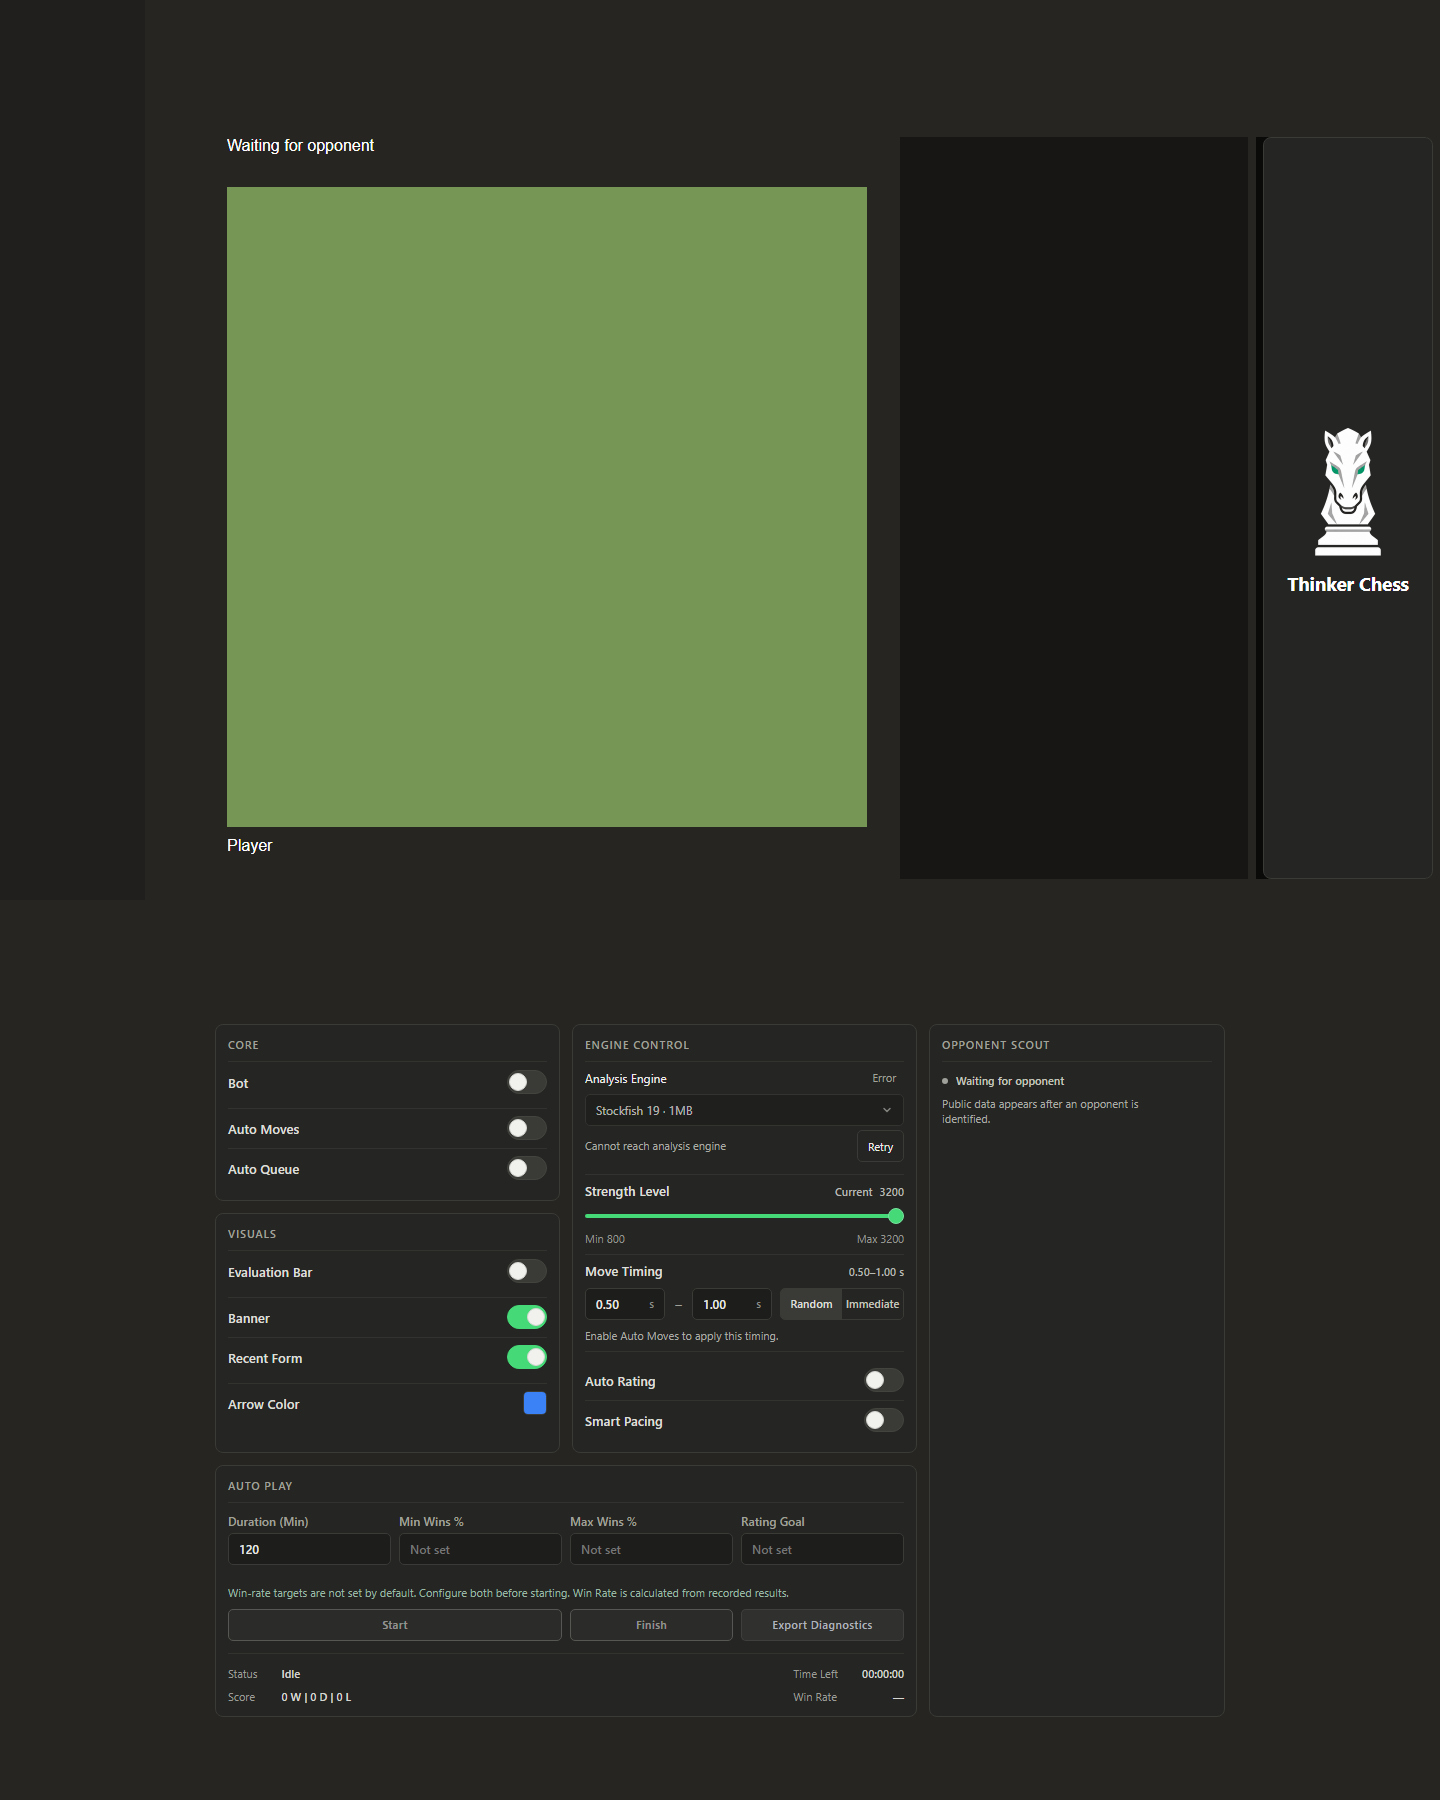
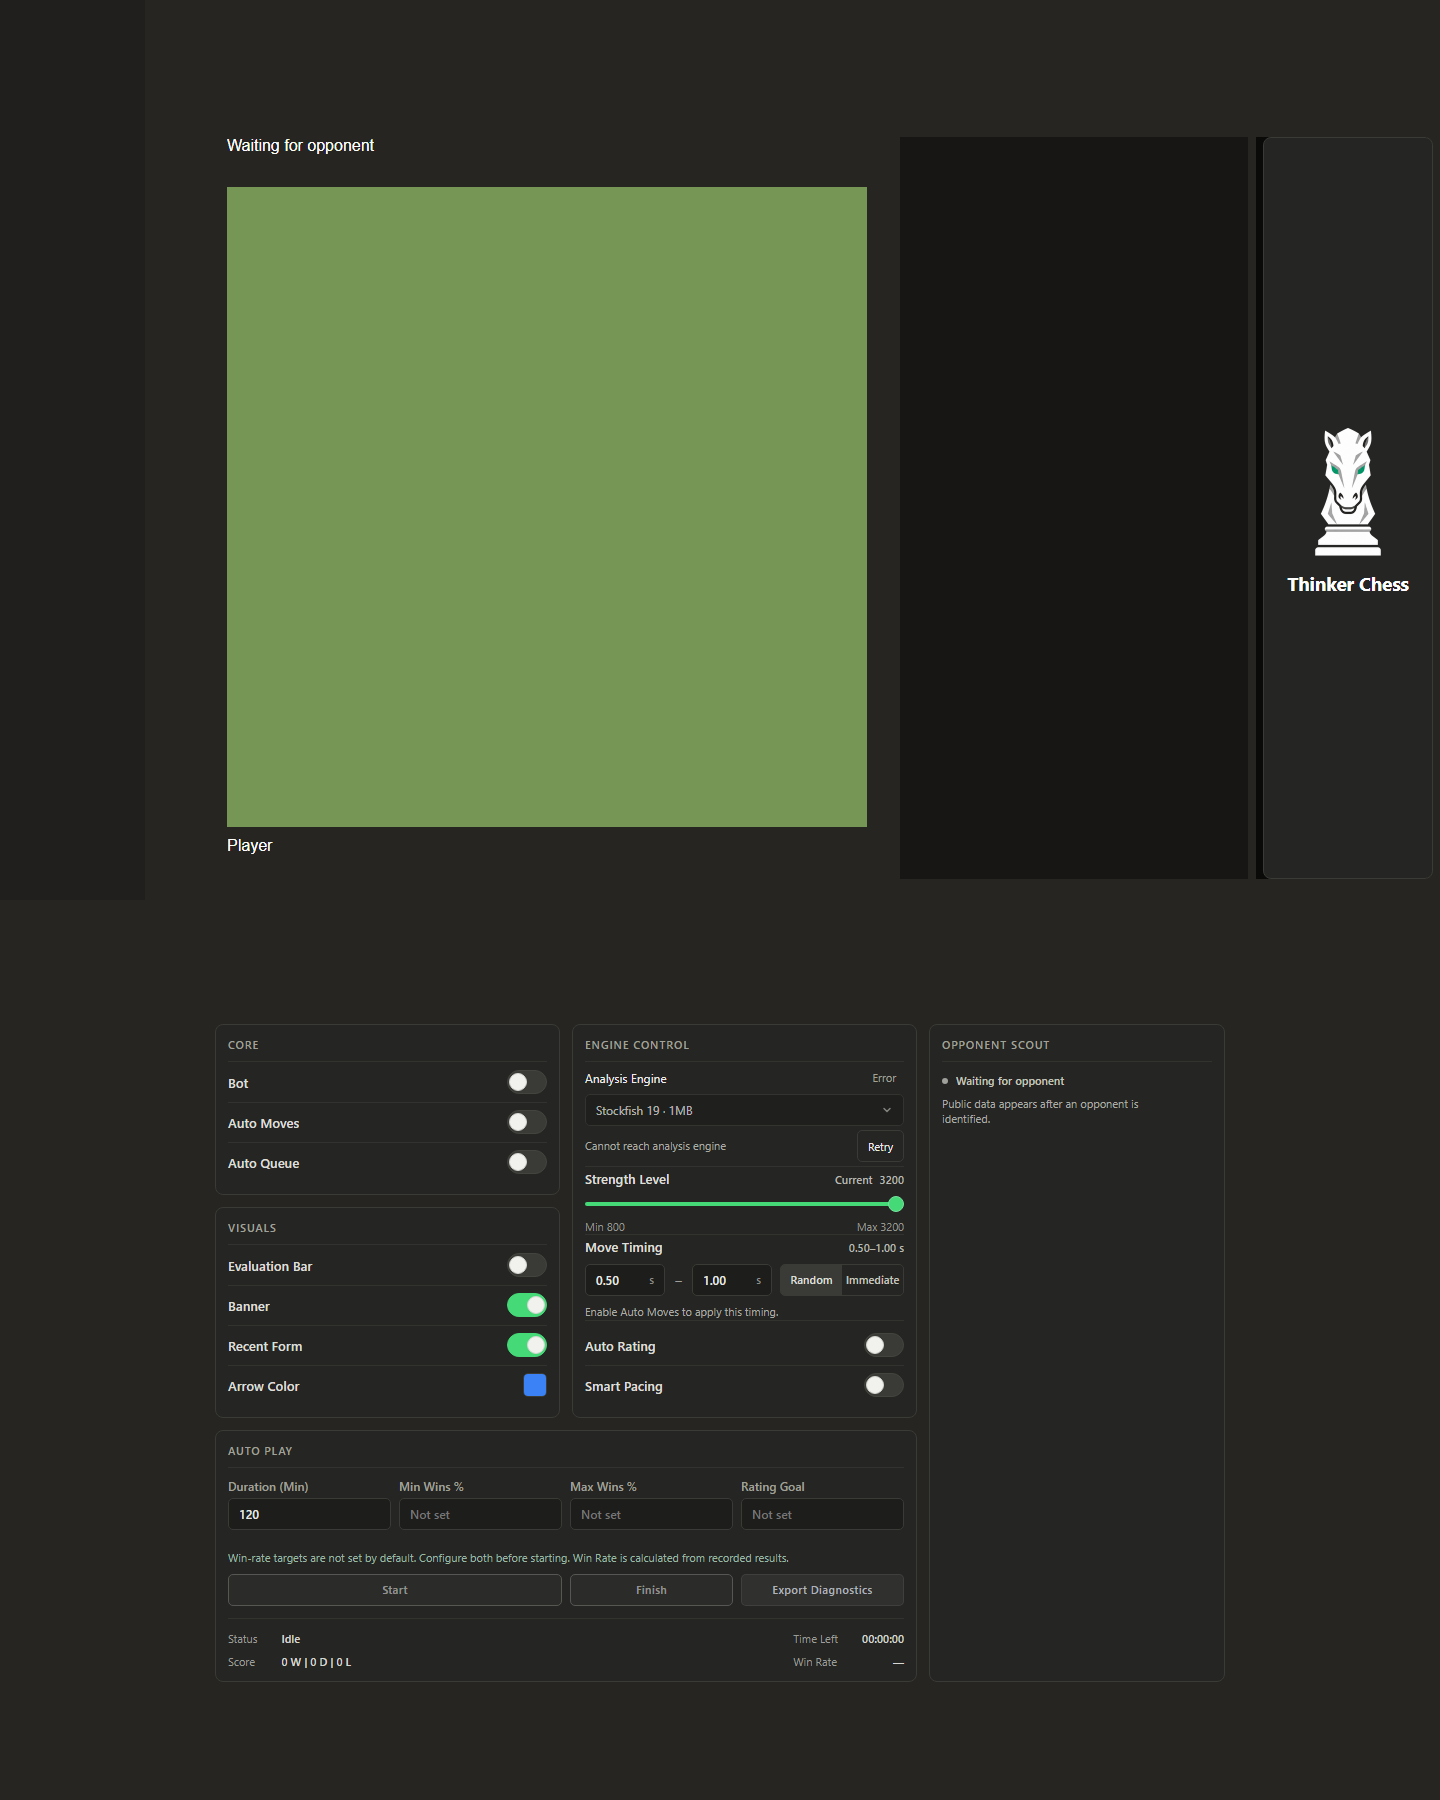
fix(block-4): balance natural panel heights without empty tails

diff --git a/script.js b/script.js
@@ -257,7 +257,7 @@ globalThis.ThinkerRatingTracker = ThinkerRatingTrackerBundle;
   const css = `
         #krypbot-container .kb-engine-section { margin:0; padding:0; border:0; }
         #krypbot-container .kb-engine-analysis { padding-top:var(--space-2); }
-        #krypbot-container .kb-engine-section + .kb-engine-section { margin-top:var(--space-2); padding-top:var(--space-2); border-top:1px solid var(--tc-console-divider); }
+        #krypbot-container .kb-engine-section + .kb-engine-section { margin-top:0; padding-top:var(--space-1); border-top:1px solid var(--tc-console-divider); }
         #krypbot-container .kb-engine-section .kb-strength-card,
         #krypbot-container .kb-engine-section .kb-run-delay-card { margin:0 !important; padding:0 !important; border:0 !important; }
         #krypbot-container .kb-engine-section .kb-run-delay-card + .kb-section { border-top:0 !important; }
@@ -281,7 +281,8 @@ globalThis.ThinkerRatingTracker = ThinkerRatingTrackerBundle;
         #krypbot-container .kb-console-module.kb-visuals-module .kb-footer { border-top:0 !important; background:linear-gradient(var(--tc-console-divider),var(--tc-console-divider)) top / 100% 1px no-repeat; }
         #oi-wrapper[data-layout-mode="desktop"] #krypbot-container .kb-core-spacing,
         #oi-wrapper[data-layout-mode="desktop"] #krypbot-container .kb-visuals-spacing { margin-top:0 !important; }
-        #oi-wrapper[data-layout-mode="desktop"] #krypbot-container .kb-engine-module { min-height:412px; }
+        #oi-wrapper[data-layout-mode="desktop"] #krypbot-container .kb-engine-module { min-height:394px; }
+        #krypbot-container .kb-engine-section .kb-dependency-hint { line-height:16px; }
         #krypbot-container .kb-engine-timing:has(#auto-delay-section[style*="display: none"]) { display:none; }
         #krypbot-container .kb-engine-strength .kb-slider { display:block; margin:8px 0; }
         #krypbot-container .kb-engine-strength .kb-strength-limits { margin-top:0; }

diff --git a/frontend/eval_bar/engine-layout.js b/frontend/eval_bar/engine-layout.js
@@ -3,7 +3,7 @@
   const css = `
         #krypbot-container .kb-engine-section { margin:0; padding:0; border:0; }
         #krypbot-container .kb-engine-analysis { padding-top:var(--space-2); }
-        #krypbot-container .kb-engine-section + .kb-engine-section { margin-top:var(--space-2); padding-top:var(--space-2); border-top:1px solid var(--tc-console-divider); }
+        #krypbot-container .kb-engine-section + .kb-engine-section { margin-top:0; padding-top:var(--space-1); border-top:1px solid var(--tc-console-divider); }
         #krypbot-container .kb-engine-section .kb-strength-card,
         #krypbot-container .kb-engine-section .kb-run-delay-card { margin:0 !important; padding:0 !important; border:0 !important; }
         #krypbot-container .kb-engine-section .kb-run-delay-card + .kb-section { border-top:0 !important; }
@@ -27,7 +27,8 @@
         #krypbot-container .kb-console-module.kb-visuals-module .kb-footer { border-top:0 !important; background:linear-gradient(var(--tc-console-divider),var(--tc-console-divider)) top / 100% 1px no-repeat; }
         #oi-wrapper[data-layout-mode="desktop"] #krypbot-container .kb-core-spacing,
         #oi-wrapper[data-layout-mode="desktop"] #krypbot-container .kb-visuals-spacing { margin-top:0 !important; }
-        #oi-wrapper[data-layout-mode="desktop"] #krypbot-container .kb-engine-module { min-height:412px; }
+        #oi-wrapper[data-layout-mode="desktop"] #krypbot-container .kb-engine-module { min-height:394px; }
+        #krypbot-container .kb-engine-section .kb-dependency-hint { line-height:16px; }
         #krypbot-container .kb-engine-timing:has(#auto-delay-section[style*="display: none"]) { display:none; }
         #krypbot-container .kb-engine-strength .kb-slider { display:block; margin:8px 0; }
         #krypbot-container .kb-engine-strength .kb-strength-limits { margin-top:0; }

diff --git a/_bmad-output/implementation-artifacts/connectivity-finish/block-4/GEOMETRY.md b/_bmad-output/implementation-artifacts/connectivity-finish/block-4/GEOMETRY.md
@@ -1,0 +1,9 @@
+# Alturas naturais e caudas
+
+Antes: linhas com caixa de 40px mas margem de 6px antes de Auto Moves, Banner e Arrow Color. Engine Ready 412px; com Retry separado 446px e cauda do Visuals 46px. A margem de 6px foi introduzida em 2898896; o agrupamento anterior c8ba23f já aplicava margem entre controles. A linha de Retry sem reserva existe desde b9624eb.
+
+Depois: Core 171px + gap12px + Visuals211px = coluna natural394px. Engine394px em Ready, Error e Retry. As divisórias entre seções reais usam 4px de padding, sem margens entre linhas de controle. Timing usa line-height16px, igual à faixa de feedback. Nenhuma linha recebe altura desigual e nenhum preenchimento foi posto no fim dos painéis.
+
+Caudas de Core, Visuals e Engine padrão:12px depois da última caixa de linha. O espaço simétrico de 8px dentro de uma linha40px com toggle24px não é cauda de painel: ele existe igualmente acima e abaixo do controle. Smart Pacing mantém altura394px com o conteúdo no topo; Scout continua alinhado ao Auto Play, inclusive vazio.
+
+A altura de 394px foi medida no navegador, não apenas calculada. Estados finais e screenshots em ../block-2/states.json; a matriz de todos os viewports será preservada em ../after/.
